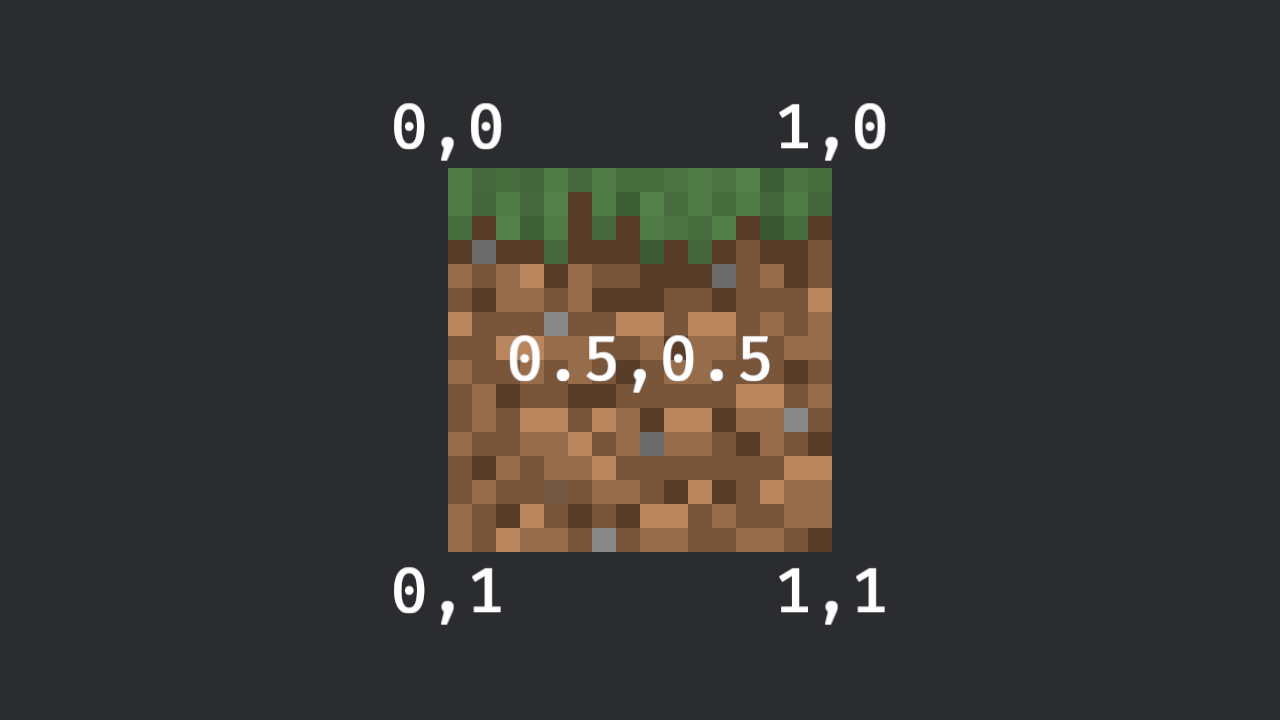
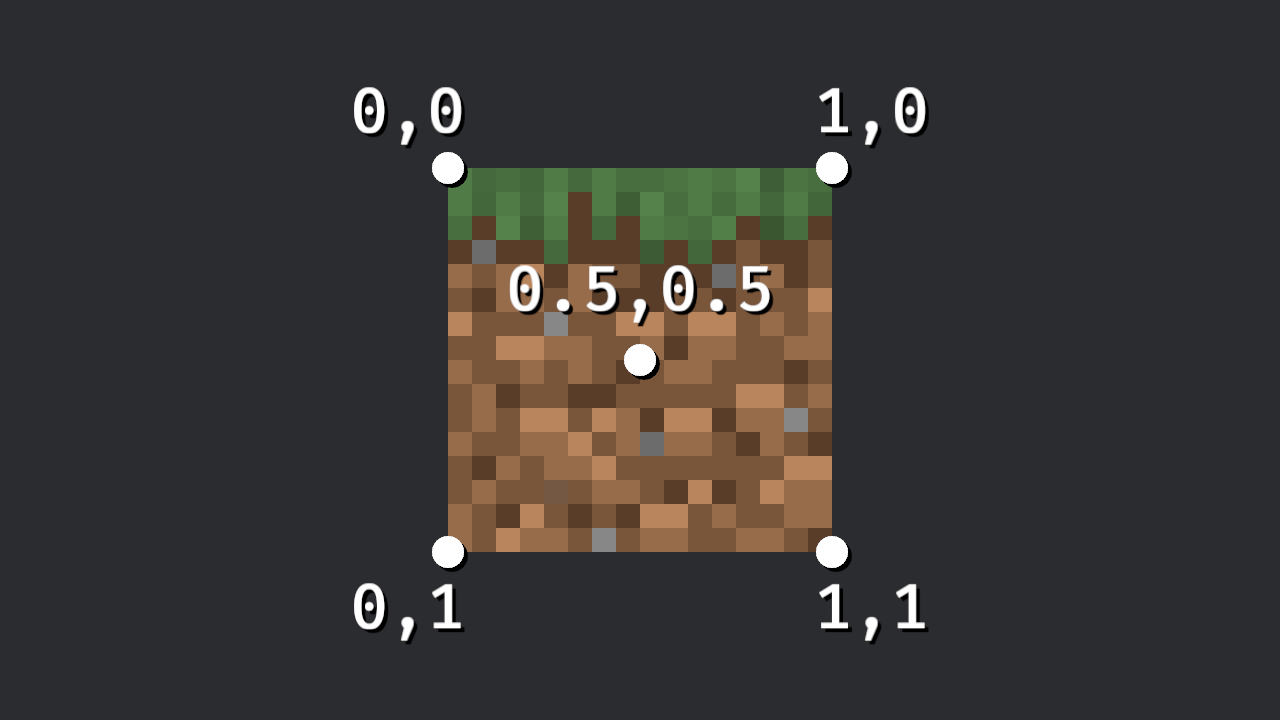
final copyediting

diff --git a/posts/writing-shaders/demos/05-uv/src/main.rs b/posts/writing-shaders/demos/05-uv/src/main.rs
@@ -28,49 +28,62 @@ fn spawn_scene(
         })),
     ));
 
-    const HORIZONTAL: f32 = 192.0;
-    const VERTICAL: f32 = 232.0;
+    const DIST: f32 = 192.0;
+    const TEXT_OFFSET: Vec2 = vec2(40.0, 56.0);
     const SIZE: f32 = 64.0;
 
+    fn text(text: &'static str, dir: Vec2) -> impl Scene {
+        bsn! {
+            Transform
+            InheritedVisibility
+            Children [
+                Mesh2d(asset_value(Circle::new(16.0)))
+                MeshMaterial2d<ColorMaterial>(asset_value(Color::WHITE))
+                Transform {
+                    translation: vec3(0.0, 0.0, 1.0)
+                }
+                Children [
+                    Mesh2d(asset_value(Circle::new(16.0)))
+                    MeshMaterial2d<ColorMaterial>(asset_value(Color::BLACK))
+                    Transform {
+                        translation: vec3(4.0, -4.0, -0.5)
+                    }
+                ]
+                --
+                Text2d(text)
+                TextFont {
+                    font_size: FontSize::Px(SIZE)
+                }
+                Transform {
+                    translation: {(TEXT_OFFSET * dir).extend(0.0)}
+                }
+                Text2dShadow
+            ]
+        }
+    }
+
     cmd.spawn_scene_list(bsn_list! {
-        Text2d("0,0")
-        TextFont {
-            font_size: FontSize::Px(SIZE)
-        }
         Transform {
-            translation: vec3(-HORIZONTAL, VERTICAL, 0.0),
+            translation: vec3(-DIST, DIST, 0.0),
         }
+        @text("0,0", vec2(-1.0, 1.0))
         --
-        Text2d("1,1")
         Transform {
-            translation: vec3(HORIZONTAL, -VERTICAL, 0.0),
+            translation: vec3(DIST, -DIST, 0.0),
         }
-        TextFont {
-            font_size: FontSize::Px(SIZE)
-        }
+        @text("1,1", vec2(1.0, -1.0))
         --
-        Text2d("0,1")
         Transform {
-            translation: vec3(-HORIZONTAL, -VERTICAL, 0.0),
+            translation: vec3(-DIST, -DIST, 0.0),
         }
-        TextFont {
-            font_size: FontSize::Px(SIZE)
-        }
-        TextFont {
-            font_size: FontSize::Px(SIZE)
-        }        --
-        Text2d("1,0")
-        Transform {
-            translation: vec3(HORIZONTAL, VERTICAL, 0.0),
-        }
-        TextFont {
-            font_size: FontSize::Px(SIZE)
-        }
+        @text("0,1", vec2(-1.0, -1.0))
         --
-        Text2d("0.5,0.5")
-        TextFont {
-            font_size: FontSize::Px(SIZE)
+        Transform {
+            translation: vec3(DIST, DIST, 0.0),
         }
+        @text("1,0", vec2(1.0, 1.0))
+        --
+        @text("0.5,0.5", vec2(0.0, 1.25))
     });
 }
 
@@ -96,5 +109,6 @@ use bevy::{
     prelude::*,
     render::render_resource::AsBindGroup,
     shader::ShaderRef,
+    sprite::Text2dShadow,
     sprite_render::{Material2d, Material2dPlugin},
 };

diff --git a/posts/writing-shaders/writing-shaders.md b/posts/writing-shaders/writing-shaders.md
@@ -357,12 +357,7 @@ Now, if we change the value of `some_uniform` on the material asset, the colour 
 > Make a hit flash shader -- just like the one we looked at in the first post --
 > which takes in 2 colours and selects one of them based on whether a `u32` value is 0 or not!
 
-Sadly, though, plain colours still aren't very interesting for our players.
-
-Currently, every pixel in our shader runs the same exact logic with the exact same data,
-so no matter what we try to do, it will always return the same colour.
-
-But, as with bindings, there's a solution to that!
+Sadly, though, plain colours still aren't very interesting for our players, so let's change that!
 
 [`AsBindGroup`]: https://docs.rs/bevy/latest/bevy/render/render_resource/trait.AsBindGroup.html
 [`ShaderType`]: https://docs.rs/bevy/latest/bevy/render/render_resource/trait.ShaderType.html
@@ -385,8 +380,7 @@ The name `VertexOutput` comes from the fact that this struct is what the vertex 
     If you remember, earlier I've mentioned that every parameter must have a `@location`.
     This is still the case! If you look at [`VertexOutput`]'s documentation, you can see that each of its fields has `@location` (or another attribute) specified!
 
-This is where WESL's imports come in!
-We can import the type using the `import` keyword followed by the path:
+This is where WESL's imports come in! We can use the `import` keyword to use the type:
 
 ```wesl
 import bevy_sprite_render::mesh2d::vertex_output::VertexOutput;
@@ -424,9 +418,9 @@ Now it's getting more exciting as our pixels can be different colours! But you k
 
 Besides uniforms, there's another type of binding -- a _texture_. A texture is like an image[^image] that we can use in our shader.
 
-[^image]: But textures don't have to be 2D! They can also be 1D or 3D.
+[^image]: But textures don't have to be 2D, They can also be 1D or 3D!
 
-To make a texture binding, we need to use a `Handle<Image>` field in our Rust struct with a new attribute: `#[texture]` and `#[sampler]`.
+To make a texture binding, we need to use a `Handle<Image>` field in our Rust struct with some new attributes: `#[texture]` and `#[sampler]`.
 Both of these attributes take a binding index:
 
 ```rs
@@ -437,7 +431,7 @@ struct MyMaterial {
 }
 ```
 
-These binding indices must be different and they can't be part of our uniform struct,
+These binding indices must be different and they can't be part of our uniform struct --
 they have to be separate from the uniforms because they're a different kind of binding:
 
 ```wesl
@@ -448,14 +442,16 @@ they have to be separate from the uniforms because they're a different kind of b
 The sampler decides how the texture is sampled. If you've ever heard of nearest/point and linear/bilinear filtering -- that's what the sampler decides.
 You can use textures without a sampler, but it's rare and often not advised to do that.
 
-To sample a texture in your shader, you can use the [`textureSample`] function, which takes 3 inputs: the texture, the sampler, and the UV.
+To sample (read from) a texture in your shader, you can use the [`textureSample`] function, which takes 3 inputs: the texture, the sampler, and the UV.
 
 UV? What's that?
+
+[`textureSample`]: https://webgpufundamentals.org/webgpu/lessons/webgpu-wgsl-function-reference.html#func-textureSample
 
 ## UVs
 
 A _UV coordinate_ is a 2D vector with its components ranging from 0 to 1.
-It's used to decide where a texture is sampled (read) from.
+It's used to decide what point a texture is sampled from.
 
 UV `0, 0` would sample from the top left corner of the texture, UV `0.5, 0.5` would sample from the centre,
 while UV `1, 1` would sample from the bottom right corner.
@@ -512,7 +508,7 @@ Hooray!
 >
 > If you've used Bevy in 2D before, you've likely used [`Sprite`] rather than `Mesh2d`.
 >
-> Fortunately, materials can also be used with [`Sprite`], [PRed by yours truly](https://github.com/bevyengine/bevy/pull/25415)!
+> Fortunately, materials can also be used with sprites, [PRed by yours truly](https://github.com/bevyengine/bevy/pull/25415)!
 >
 > Instead of implementing the `Material2d` trait, you need to implement [`MaterialExtension2d`]
 > and instead of `MeshMaterial2d`, you need to use [`SpriteMaterial`].
